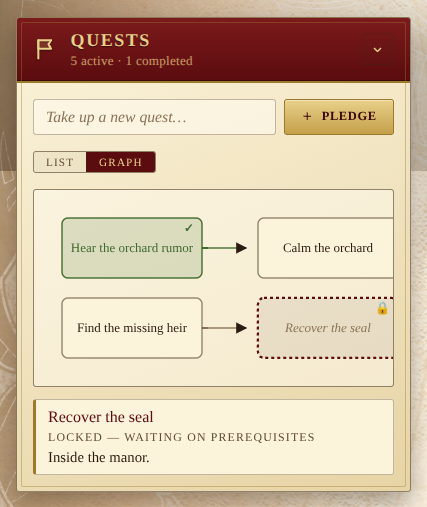
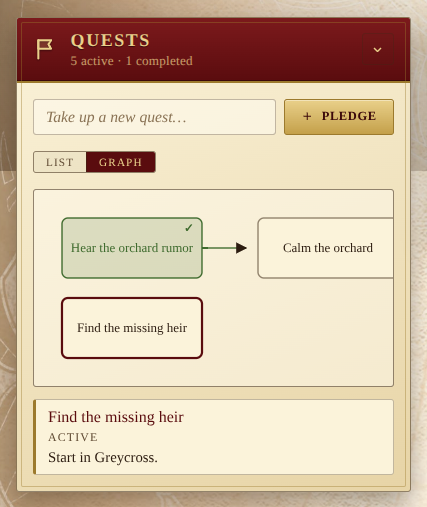
Hide locked quests from the graph view (LoD-faithful reveal)
In the actual Legacy of Dragonholt book the storyteller doesn't know
what's coming either — paragraphs are only read after they're
unlocked. The graph view previously drew locked quests with a dashed
"🔒" badge, which spoiled the structure of what was to come.

Now QuestGraph filters the quest list to "completed + every-prereq-
satisfied" before laying out, so locked quests appear nowhere — not
as a card, not as a destination for an arrow. The graph grows as
quests unlock: the moment a prerequisite is marked done, the newly-
unlocked quest appears in its column with the edge from its parent.

The list view still shows everything (it's the place to author
dependencies anyway), so a post-campaign overview is still one toggle
away. The "locked node" styling and "Locked" status label are gone
since they're now unreachable. Tests flipped to assert hidden +
reveal-on-unlock; screenshot regenerated.

diff --git a/src/components/Quests/QuestGraph.jsx b/src/components/Quests/QuestGraph.jsx
@@ -6,13 +6,22 @@ import styles from './QuestGraph.module.scss';
 
 const ARROW_INSET = 12;
 
-// Render the quest dependency DAG. Pure presentational: takes a list of
-// quests + a click handler, draws nodes and arrows on an SVG canvas, and
-// reports the active node id outwards via onFocus.
+// Render the quest dependency DAG. Pure presentational: takes the raw
+// quest list and draws only quests that the table actually knows about
+// (i.e. completed or with every prerequisite satisfied). Locked quests
+// are hidden entirely — matching how the Legacy of Dragonholt book reveals
+// paragraphs only after they're unlocked.
 const QuestGraph = ({ quests, onFocusQuest }) => {
   const [focusId, setFocusId] = useState(null);
 
-  const layout = useMemo(() => layoutQuestGraph(quests), [quests]);
+  // Filter before laying out, so the graph grows as quests unlock instead
+  // of spoiling the structure of what's coming.
+  const visibleQuests = useMemo(
+    () => quests.filter((q) => q.isDone || questIsUnlocked(q, quests)),
+    [quests]
+  );
+
+  const layout = useMemo(() => layoutQuestGraph(visibleQuests), [visibleQuests]);
 
   if (quests.length === 0) {
     return (
@@ -21,13 +30,20 @@ const QuestGraph = ({ quests, onFocusQuest }) => {
       </p>
     );
   }
+  if (visibleQuests.length === 0) {
+    // Pathological case: every quest's dependencies point at a quest that
+    // isn't itself reachable. The list view is still the place to untangle.
+    return (
+      <p className={styles.empty}>
+        Nothing to draw yet — every quest is waiting on a prerequisite.
+      </p>
+    );
+  }
 
-  const focused = focusId ? quests.find((q) => q.id === focusId) : null;
+  const focused = focusId
+    ? visibleQuests.find((q) => q.id === focusId)
+    : null;
 
-  // Quick lookup: for each node, is it locked (waiting on an open dep)?
-  const lockedById = new Map(
-    quests.map((q) => [q.id, !questIsUnlocked(q, quests) && !q.isDone])
-  );
   const positionsById = new Map(layout.nodes.map((n) => [n.id, n]));
 
   const select = (id) => {
@@ -71,79 +87,66 @@ const QuestGraph = ({ quests, onFocusQuest }) => {
             const midX = (x1 + x2) / 2;
             // Smooth horizontal bezier so columns of arrows don't overlap.
             const path = `M${x1},${y1} C${midX},${y1} ${midX},${y2} ${x2},${y2}`;
-            const parentDone = quests.find((q) => q.id === edge.from)?.isDone;
+            // Every edge in a visible-only graph starts from a completed
+            // quest, so the parent-done highlight is always on.
             return (
               <path
                 key={`${edge.from}-${edge.to}-${idx}`}
                 d={path}
-                className={cx(styles.edge, { [styles.edgeUnlocked]: parentDone })}
+                className={cx(styles.edge, styles.edgeUnlocked)}
                 markerEnd="url(#quest-arrow)"
                 fill="none"
               />
             );
           })}
 
-          {layout.nodes.map((node) => {
-            const locked = lockedById.get(node.id);
-            return (
-              <g
-                key={node.id}
-                className={cx(styles.node, {
-                  [styles.nodeDone]: node.isDone,
-                  [styles.nodeLocked]: locked,
-                  [styles.nodeFocused]: node.id === focusId,
-                })}
-                transform={`translate(${node.x},${node.y})`}
-                onClick={() => select(node.id)}
-                tabIndex={0}
-                role="button"
-                aria-label={`${node.title}${node.isDone ? ' (completed)' : locked ? ' (locked)' : ''}`}
-                onKeyDown={(event) => {
-                  if (event.key === 'Enter' || event.key === ' ') {
-                    event.preventDefault();
-                    select(node.id);
-                  }
-                }}
-                data-testid={`graph-node-${node.id}`}
+          {layout.nodes.map((node) => (
+            <g
+              key={node.id}
+              className={cx(styles.node, {
+                [styles.nodeDone]: node.isDone,
+                [styles.nodeFocused]: node.id === focusId,
+              })}
+              transform={`translate(${node.x},${node.y})`}
+              onClick={() => select(node.id)}
+              tabIndex={0}
+              role="button"
+              aria-label={`${node.title}${node.isDone ? ' (completed)' : ''}`}
+              onKeyDown={(event) => {
+                if (event.key === 'Enter' || event.key === ' ') {
+                  event.preventDefault();
+                  select(node.id);
+                }
+              }}
+              data-testid={`graph-node-${node.id}`}
+            >
+              <rect
+                className={styles.nodeBox}
+                width={node.width}
+                height={node.height}
+                rx="6"
+                ry="6"
+              />
+              <text
+                className={styles.nodeTitle}
+                x={node.width / 2}
+                y={node.height / 2 + 4}
+                textAnchor="middle"
               >
-                <rect
-                  className={styles.nodeBox}
-                  width={node.width}
-                  height={node.height}
-                  rx="6"
-                  ry="6"
-                />
+                {node.title.length > 22 ? `${node.title.slice(0, 20)}…` : node.title}
+              </text>
+              {node.isDone && (
                 <text
-                  className={styles.nodeTitle}
-                  x={node.width / 2}
-                  y={node.height / 2 + 4}
-                  textAnchor="middle"
+                  className={styles.nodeBadge}
+                  x={node.width - 8}
+                  y={14}
+                  textAnchor="end"
                 >
-                  {node.title.length > 22 ? `${node.title.slice(0, 20)}…` : node.title}
+                  ✓
                 </text>
-                {node.isDone && (
-                  <text
-                    className={styles.nodeBadge}
-                    x={node.width - 8}
-                    y={14}
-                    textAnchor="end"
-                  >
-                    ✓
-                  </text>
-                )}
-                {locked && (
-                  <text
-                    className={styles.nodeBadgeLock}
-                    x={node.width - 8}
-                    y={14}
-                    textAnchor="end"
-                  >
-                    🔒
-                  </text>
-                )}
-              </g>
-            );
-          })}
+              )}
+            </g>
+          ))}
         </svg>
       </div>
       {focused && (
@@ -154,11 +157,7 @@ const QuestGraph = ({ quests, onFocusQuest }) => {
         >
           <p className={styles.detailTitle}>{focused.title}</p>
           <p className={styles.detailStatus}>
-            {focused.isDone
-              ? 'Completed'
-              : lockedById.get(focused.id)
-                ? 'Locked — waiting on prerequisites'
-                : 'Active'}
+            {focused.isDone ? 'Completed' : 'Active'}
           </p>
           {focused.notes && (
             <p className={styles.detailNotes}>{focused.notes}</p>

diff --git a/src/components/Quests/QuestGraph.test.jsx b/src/components/Quests/QuestGraph.test.jsx
@@ -16,11 +16,28 @@ describe('QuestGraph', () => {
     expect(screen.getByText(/No quests yet/)).toBeInTheDocument();
   });
 
-  it('renders one node per quest', () => {
+  it('renders nodes only for completed or unlocked quests', () => {
     render(<QuestGraph quests={QUESTS} />);
-    for (const q of QUESTS) {
-      expect(screen.getByTestId(`graph-node-${q.id}`)).toBeInTheDocument();
-    }
+    // Done root is shown.
+    expect(screen.getByTestId('graph-node-q-fight')).toBeInTheDocument();
+    // Open root is shown.
+    expect(screen.getByTestId('graph-node-q-find')).toBeInTheDocument();
+    // Recover the seal depends on the still-open "Find the heir" → hidden.
+    expect(screen.queryByTestId('graph-node-q-seal')).toBeNull();
+    // Coronation depends on the hidden seal quest → also hidden.
+    expect(screen.queryByTestId('graph-node-q-coron')).toBeNull();
+  });
+
+  it('reveals a quest the moment its prerequisite is marked done', () => {
+    const { rerender } = render(<QuestGraph quests={QUESTS} />);
+    expect(screen.queryByTestId('graph-node-q-seal')).toBeNull();
+
+    const unlocked = QUESTS.map((q) =>
+      q.id === 'q-find' ? { ...q, isDone: true } : q
+    );
+    rerender(<QuestGraph quests={unlocked} />);
+
+    expect(screen.getByTestId('graph-node-q-seal')).toBeInTheDocument();
   });
 
   it('flags completed quests on the node label', () => {
@@ -30,24 +47,17 @@ describe('QuestGraph', () => {
     ).toBeInTheDocument();
   });
 
-  it('flags locked quests (open prereq) on the node label', () => {
-    render(<QuestGraph quests={QUESTS} />);
-    // Coronation depends on q-seal (open) → it's locked.
-    expect(
-      screen.getByRole('button', { name: 'Coronation at Bronze (locked)' })
-    ).toBeInTheDocument();
-  });
-
   it('clicking a node opens its detail panel and reports focus outward', async () => {
     const onFocus = vi.fn();
     const user = userEvent.setup();
     render(<QuestGraph quests={QUESTS} onFocusQuest={onFocus} />);
 
-    await user.click(screen.getByTestId('graph-node-q-seal'));
+    await user.click(screen.getByTestId('graph-node-q-find'));
 
-    expect(onFocus).toHaveBeenCalledWith('q-seal');
-    const dialog = screen.getByRole('dialog', { name: /Recover the seal details/ });
-    expect(dialog).toHaveTextContent('Recover the seal');
-    expect(dialog).toHaveTextContent('Inside the manor.');
+    expect(onFocus).toHaveBeenCalledWith('q-find');
+    const dialog = screen.getByRole('dialog', { name: /Find the heir details/ });
+    expect(dialog).toHaveTextContent('Find the heir');
+    expect(dialog).toHaveTextContent('Start in Greycross.');
+    expect(dialog).toHaveTextContent('Active');
   });
 });

diff --git a/src/components/Quests/QuestGraph.module.scss b/src/components/Quests/QuestGraph.module.scss
@@ -58,12 +58,6 @@
   stroke: var(--lod-good);
 }
 
-.nodeLocked .nodeBox {
-  fill: rgba(60, 40, 20, 0.08);
-  stroke: var(--lod-ink-faint);
-  stroke-dasharray: 3 3;
-}
-
 .nodeFocused .nodeBox {
   stroke: var(--lod-crimson);
   stroke-width: 2.2;
@@ -79,21 +73,11 @@
   fill: var(--lod-good);
 }
 
-.nodeLocked .nodeTitle {
-  fill: var(--lod-ink-faint);
-  font-style: italic;
-}
-
 .nodeBadge {
   font-family: var(--font-display);
   font-size: 12px;
   font-weight: 700;
   fill: var(--lod-good);
-}
-
-.nodeBadgeLock {
-  font-size: 12px;
-  fill: var(--lod-ink-faint);
 }
 
 .detail {

diff --git a/docs/features/quests.md b/docs/features/quests.md
@@ -26,16 +26,27 @@ that the list-view editor already exposes. Roots sit on the leftmost
 column; each child quest moves one column past the deepest of its
 prerequisites.
 
-![A quest dependency graph: completed root, locked descendant, plus a focused-quest detail panel](../screenshots/quest-graph.png)
+![The dependency graph: a completed root, an unblocked next step, an unrelated root, and the focused-quest detail panel](../screenshots/quest-graph.png)
 
-- **Green** node — completed quest. The edge from it to its child is
-  also green, so an unblocked next step is obvious at a glance.
-- **Dashed** node — locked: at least one prerequisite is still open.
+- **Green** node — completed quest.
 - **Solid** node — active and ready to take up.
 - Clicking a node opens a small detail panel below the canvas with the
-  quest's title, status (Active / Locked / Completed) and notes.
+  quest's title, status (Active / Completed) and notes.
 - The view is **read-only**; editing still happens in the list view to
   keep the graph uncluttered.
+
+### Locked quests stay hidden
+
+A quest with at least one **open prerequisite** is **not drawn at all**
+— neither as a card nor as a destination for an arrow. The graph only
+shows what the table already knows about, matching how the Legacy of
+Dragonholt book itself reveals paragraphs only after they're unlocked.
+The moment a prerequisite is marked done, the newly-unlocked quest
+appears in its column with the edge from its parent in tow.
+
+If you want a retrospective overview of the whole writ after the
+campaign — including everything that was once locked — the list view
+already shows every quest, dependencies and all.
 
 The active view is remembered per device under `lod:pref:quests-view`.
 